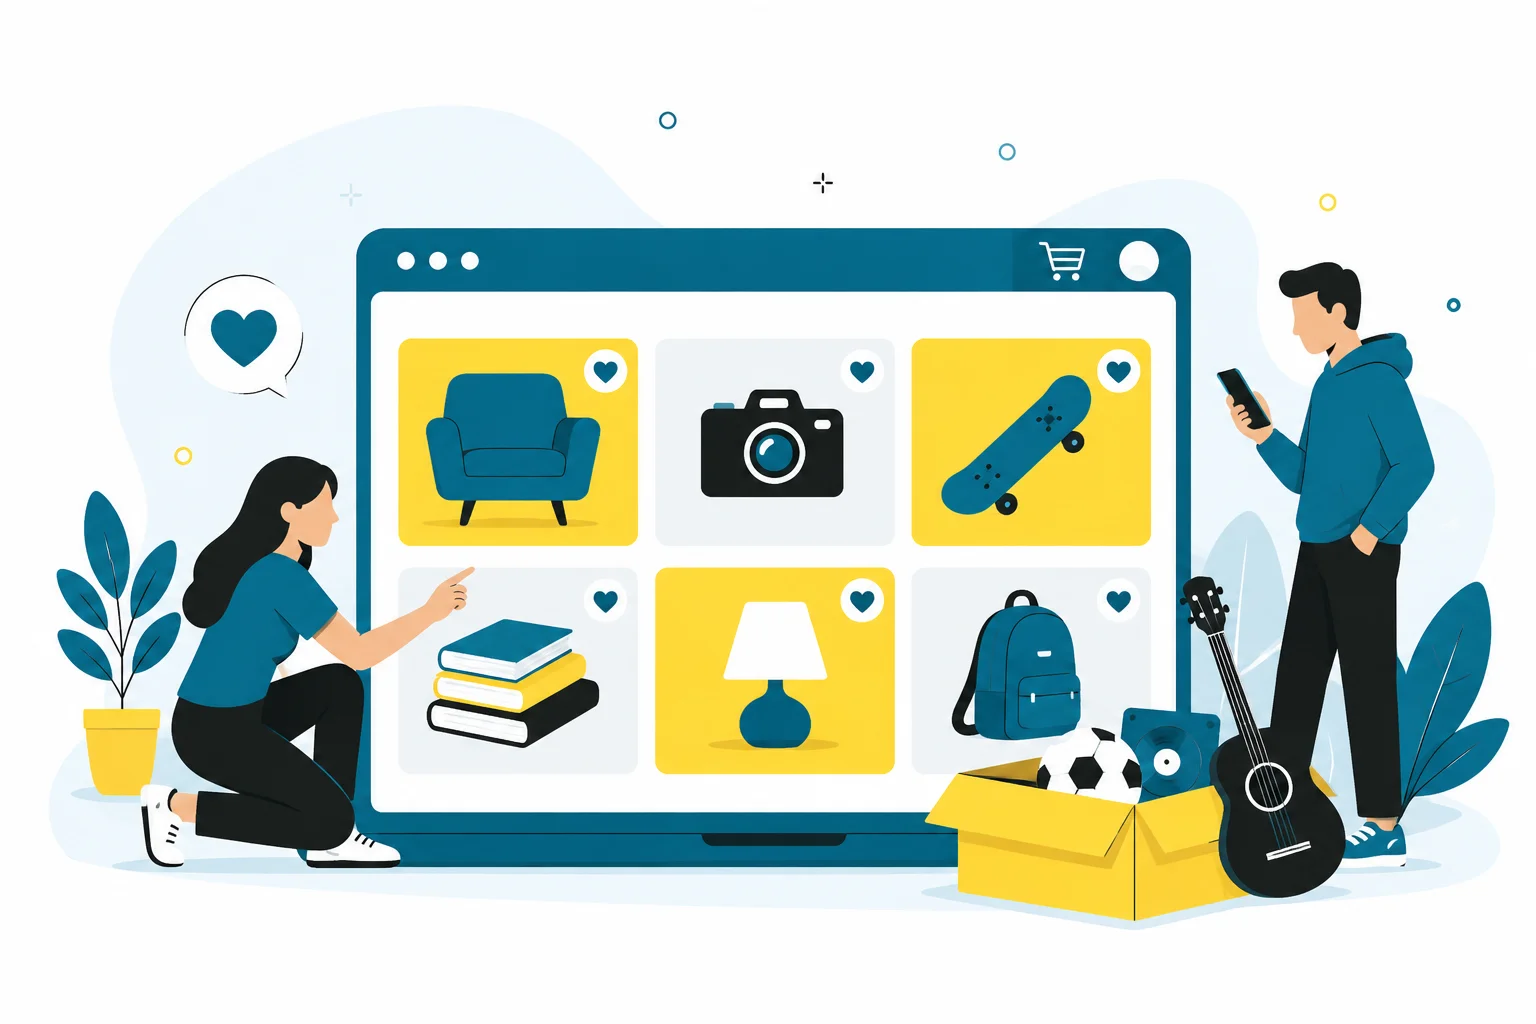
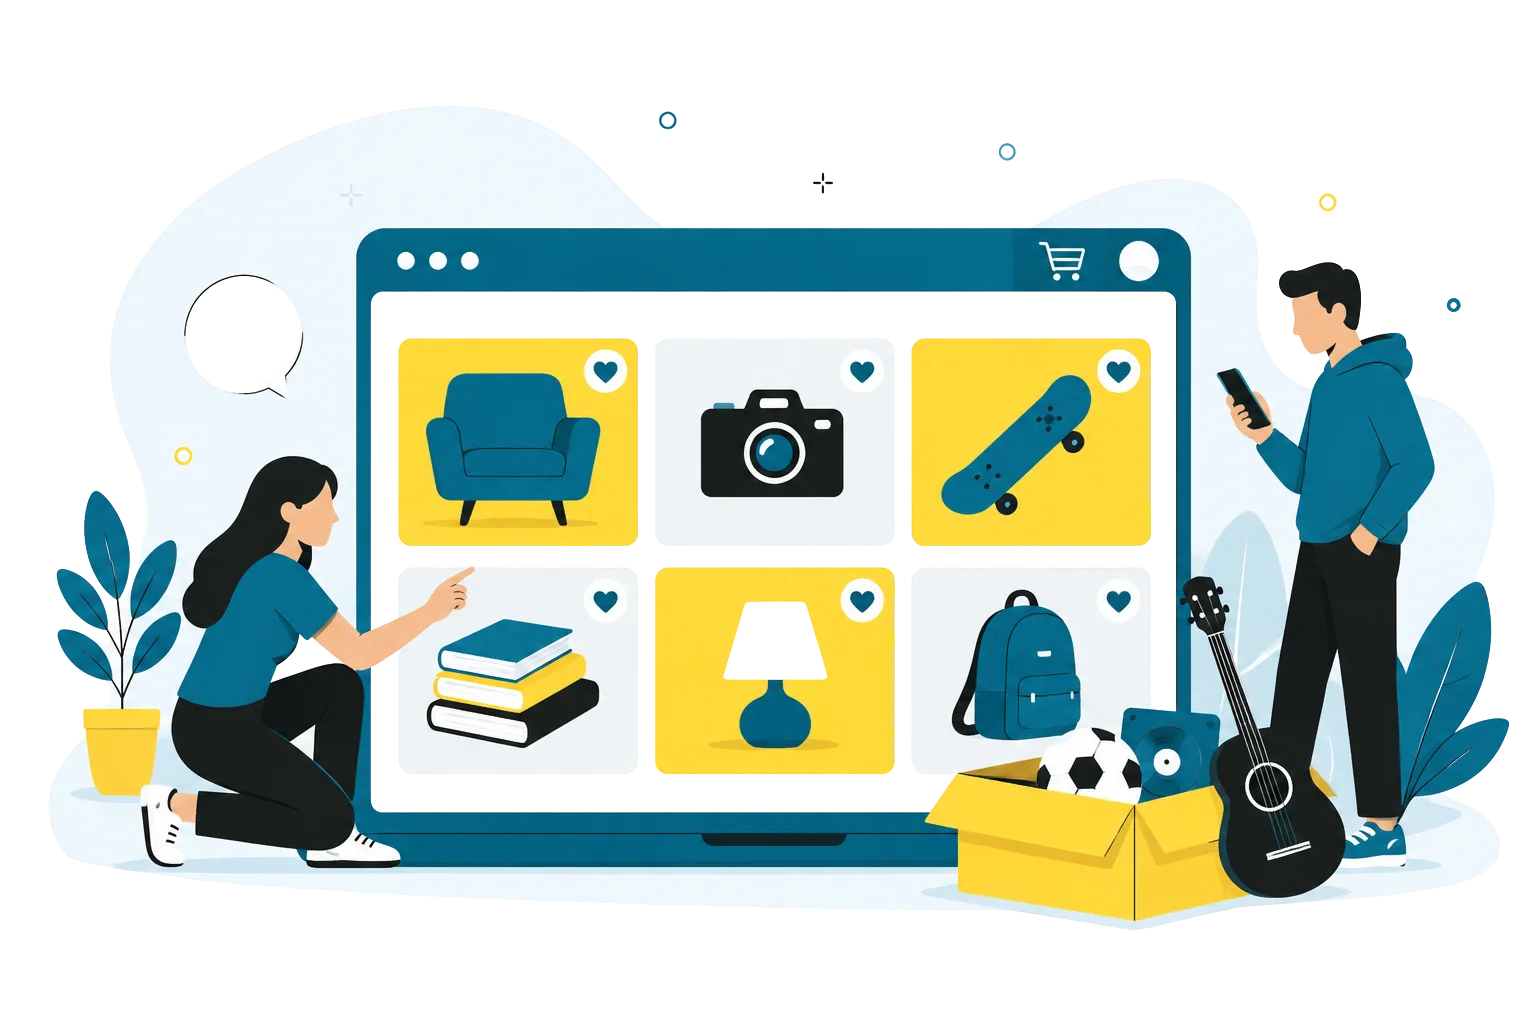
feat: update HeroSection and images

Changed region(s): [[0.125, 0.2812, 0.1875, 0.375], [0.8438, 0.1875, 0.875, 0.2188]]

diff --git a/src/components/shared/HeroSection.tsx b/src/components/shared/HeroSection.tsx
@@ -1,0 +1,60 @@
+'use client'
+
+import { useState, useEffect } from 'react'
+import Link from 'next/link'
+
+const IMAGES = ['/hero_img.webp', '/hero_img_2.webp']
+
+export default function HeroSection() {
+  const [currentImageIndex, setCurrentImageIndex] = useState(0)
+
+  useEffect(() => {
+    const interval = setInterval(() => {
+      setCurrentImageIndex((prev) => (prev + 1) % IMAGES.length)
+    }, 5000) // Change image every 5 seconds
+
+    return () => clearInterval(interval)
+  }, [])
+
+  return (
+    <section 
+      className="bg-navy text-white relative flex items-center justify-center min-h-[calc(100vh-4rem)] md:min-h-[calc(100vh-5rem)] overflow-hidden"
+    >
+      {/* Background Images */}
+      {IMAGES.map((img, index) => (
+        <div 
+          key={img}
+          className={`absolute inset-0 bg-contain bg-no-repeat bg-center transition-opacity duration-1000 ease-in-out ${
+            index === currentImageIndex ? 'opacity-100' : 'opacity-0'
+          }`}
+          style={{ backgroundImage: `url(${img})` }}
+        />
+      ))}
+
+      <div className="absolute inset-0 bg-navy/80 z-0"></div>
+      
+      <div className="container mx-auto px-4 text-center md:px-6 relative z-10 py-12 pointer-events-none">
+        <h1 className="mb-4 text-4xl font-bold tracking-tight sm:text-5xl md:text-6xl">
+          Temukan Barang Bekas Impianmu
+        </h1>
+        <p className="mx-auto max-w-2xl text-lg text-gray-300 mb-8">
+          Jual beli barang bekas berkualitas menjadi lebih mudah, cepat, dan aman di Barkasku.
+        </p>
+        <div className="flex justify-center gap-4 pointer-events-auto">
+          <Link
+            href="/search"
+            className="rounded-md bg-yellow-500 px-6 py-3 font-medium text-white shadow hover:bg-yellow-600 transition-colors"
+          >
+            Cari Barang
+          </Link>
+          <Link
+            href="/dashboard/ads/create"
+            className="rounded-md bg-white px-6 py-3 font-medium text-navy shadow hover:bg-gray-100 transition-colors"
+          >
+            Pasang Iklan
+          </Link>
+        </div>
+      </div>
+    </section>
+  )
+}

diff --git a/src/app/page.tsx b/src/app/page.tsx
@@ -2,6 +2,7 @@ import { createClient } from '@/lib/supabase/server'
 import Navbar from '@/components/shared/Navbar'
 import Footer from '@/components/shared/Footer'
 import BannerSlider from '@/components/shared/BannerSlider'
+import HeroSection from '@/components/shared/HeroSection'
 import Link from 'next/link'
 import { Eye } from 'lucide-react'
 
@@ -44,35 +45,7 @@ export default async function Home() {
       <Navbar />
       
       <main className="flex-1">
-        {/* Hero Section */}
-        <section 
-          className="bg-navy py-20 text-white relative bg-cover bg-center"
-          style={{ backgroundImage: 'url(/hero_img.webp)' }}
-        >
-          <div className="absolute inset-0 bg-navy/80"></div>
-          <div className="container mx-auto px-4 text-center md:px-6 relative z-10">
-            <h1 className="mb-4 text-4xl font-bold tracking-tight sm:text-5xl md:text-6xl">
-              Temukan Barang Bekas Impianmu
-            </h1>
-            <p className="mx-auto max-w-2xl text-lg text-gray-300 mb-8">
-              Jual beli barang bekas berkualitas menjadi lebih mudah, cepat, dan aman di Barkasku.
-            </p>
-            <div className="flex justify-center gap-4">
-              <Link
-                href="/search"
-                className="rounded-md bg-yellow-500 px-6 py-3 font-medium text-white shadow hover:bg-yellow-600 transition-colors"
-              >
-                Cari Barang
-              </Link>
-              <Link
-                href="/dashboard/ads/create"
-                className="rounded-md bg-white px-6 py-3 font-medium text-navy shadow hover:bg-gray-100 transition-colors"
-              >
-                Pasang Iklan
-              </Link>
-            </div>
-          </div>
-        </section>
+        <HeroSection />
 
         {/* Banners Section */}
         {banners && banners.length > 0 && (
